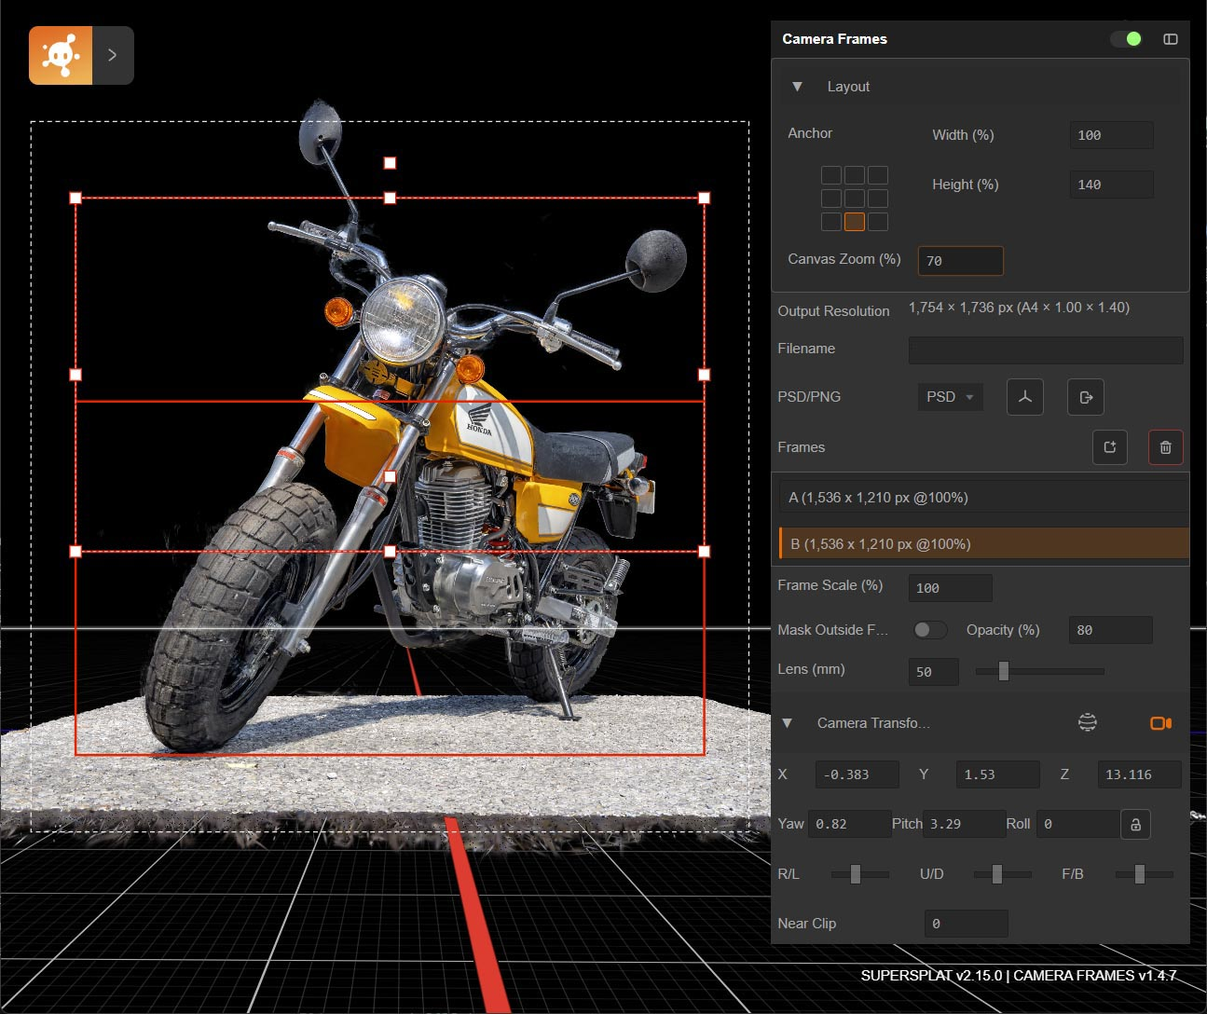
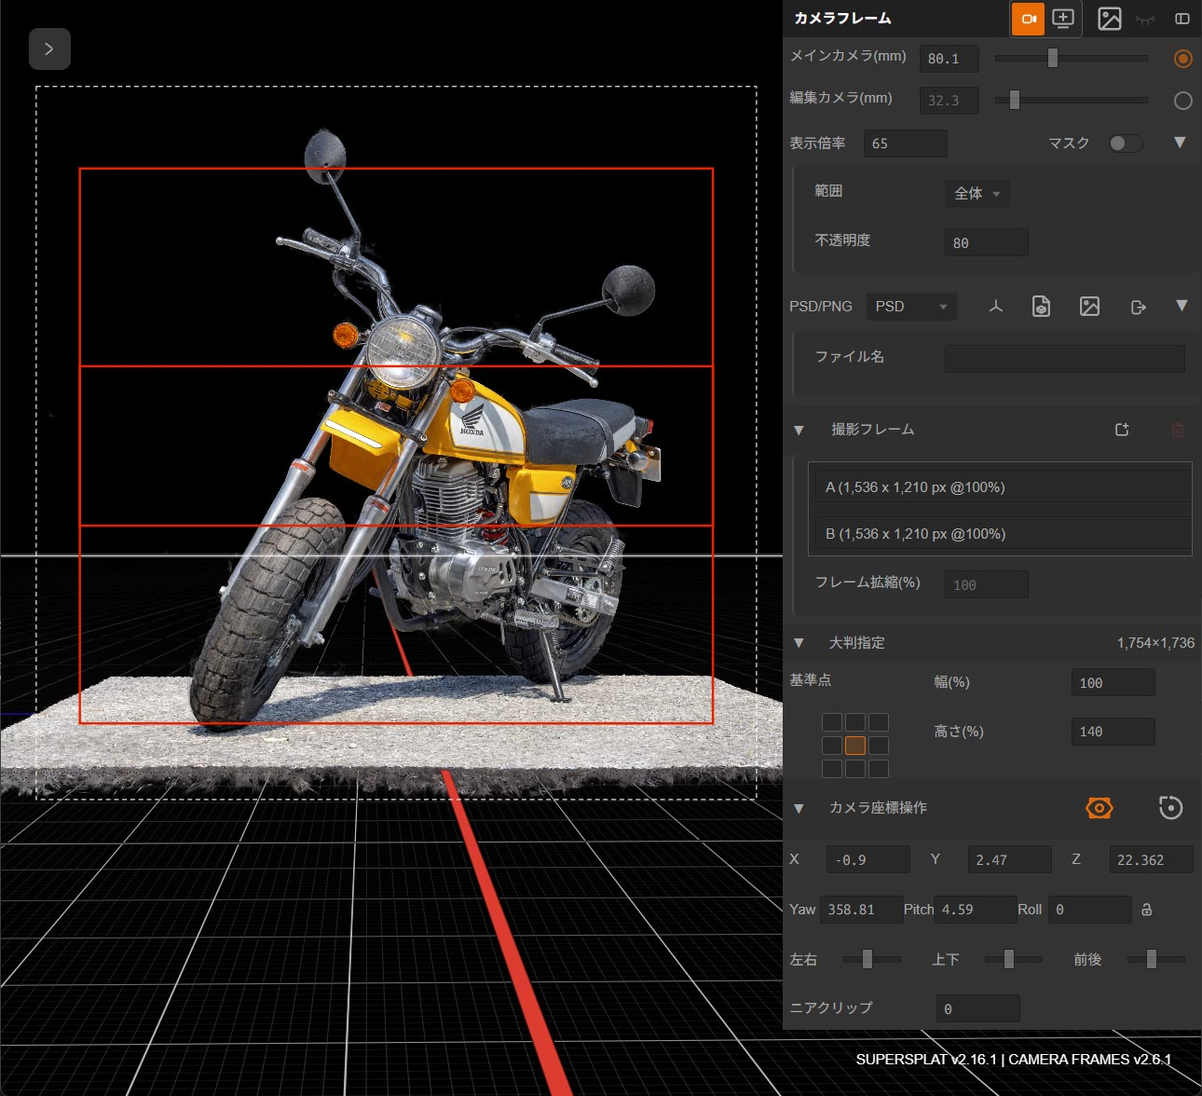
refactor: Rename export format label from 'PSD/PNG' to 'Export' in UI, documentation, and screenshots.

diff --git a/docs/camera_frames_manual.html b/docs/camera_frames_manual.html
@@ -4,7 +4,7 @@
 <head>
     <meta charset="UTF-8">
     <meta name="viewport" content="width=device-width, initial-scale=1.0">
-    <title>supersplat CAMERA FRAMES 操作マニュアル</title>
+    <title>CAMERA FRAMES 操作マニュアル</title>
     <style>
         body {
             font-family: 'Segoe UI', Tahoma, Geneva, Verdana, sans-serif;
@@ -145,11 +145,11 @@
 
     <div class="container">
 
-        <h1>supersplat CAMERA FRAMES 操作マニュアル</h1>
+        <h1>CAMERA FRAMES 操作マニュアル</h1>
         <p style="text-align: left; font-size: 1.1em; color: #5a5a5a;">
-            背景原図の参考画像を作成します。3Dシーンの中に、ロケ地の3Dデータ(拡張子PLY形式のファイル)や3Dモデル(拡張子GLB形式のファイル)を配置し、A4換算での書き出し用紙サイズを設定し、複数の<span
-                class="keyword">撮影フレーム</span>を配置し、カメラの画角やモデルの位置合わせをして、LO用紙テンプレとぴったり合う画像として書き出すためのツールです。Webブラウザで動作させることができます。本マニュアルは
-            CAMERA FRAMES v2.6.0 に対応しています。
+            CAMERA FRAMES は、A4相当の<span class="keyword">基準用紙</span>の上に複数の<span
+                class="keyword">撮影フレーム</span>をレイアウトし、構図（カメラの位置・向き・画角）を調整して、LO用紙テンプレとぴったり合う画像を書き出すためのツールです。Webブラウザで動作します。本マニュアルは
+            CAMERA FRAMES <span class="keyword">v2.6.1</span> に対応しています。
             <br>URL: <a href="https://stechdrive.github.io/supersplat-cameraframes/"
                 target="_blank">https://stechdrive.github.io/supersplat-cameraframes/</a>
         </p>
@@ -162,111 +162,176 @@
 
         <hr>
 
+        <h2>はじめに（基本の流れ）</h2>
+        <ul class="operation-list">
+            <li><span class="keyword">3Dデータ</span>（.ply/.splat/.sog など）や <span
+                    class="keyword">3Dモデル</span>（.glb）を読み込みます。</li>
+            <li><span class="control">大判指定</span>で基準用紙のサイズ（幅/高さ）と基準点を決めます。</li>
+            <li><span class="control">フレーム一覧</span>で撮影フレームを追加し、ビューポート上で位置・回転・拡縮を調整します。</li>
+            <li><span class="control">メインカメラ表示</span>で構図を仕上げ、必要に応じて<span class="control">編集カメラ表示</span>から別視点で確認できます。
+            </li>
+            <li><span class="control">エクスポート</span>で PSD/PNG を<span class="control">レンダリング</span>して書き出します。</li>
+        </ul>
+
         <h2>0. ファイルの読み込み</h2>
-        <div class="container">
+        <p style="text-align: left; font-size: 1.1em; color: #5a5a5a;">
+            ブラウザへドラッグ・アンド・ドロップすると読み込みできます（複数ファイル可）。画像ファイルを1枚だけドロップした場合は、<span class="keyword">下絵</span>として読み込まれます。
+        </p>
 
-            <p style="text-align: left; font-size: 1.1em; color: #5a5a5a;">
-                ブラウザにロケ地の3Dデータ(拡張子.ply/.sog
-                のファイル)や3Dモデル(拡張子.glbのファイル)、このアプリで作ったシーンファイル(拡張子.ssprojのファイル)をドラッグ・アンド・ドロップすると読み込みできます。
-            </p>
-
-
-        </div>
+        <table>
+            <tr>
+                <th>読み込めるもの</th>
+                <th>拡張子例</th>
+                <th>用途</th>
+            </tr>
+            <tr>
+                <td>ロケ地などの3Dデータ</td>
+                <td><span class="control">.ply / .splat / .sog / .lcc</span></td>
+                <td>背景などのベースとして配置します（複数読み込み可）。</td>
+            </tr>
+            <tr>
+                <td>3Dモデル</td>
+                <td><span class="control">.glb</span></td>
+                <td>小物やキャラなどの当たりを置いて構図確認に使います。</td>
+            </tr>
+            <tr>
+                <td>シーンファイル</td>
+                <td><span class="control">.ssproj</span></td>
+                <td>カメラや撮影フレーム、マスク、下絵などを含めて再現できます。</td>
+            </tr>
+            <tr>
+                <td>下絵（画像）</td>
+                <td><span class="control">.png / .jpg / .jpeg / .webp</span></td>
+                <td>基準用紙に重ねて表示し、位置合わせのガイドにできます。</td>
+            </tr>
+        </table>
 
 
         <hr>
 
 
-        <h2>1. UIパネルからの操作 (設定・書き出し)</h2>
+        <h2>1. UIパネルからの操作（設定・書き出し）</h2>
         <div class="image-placeholder">
 
-            <span class="note"><img src="./img/screenshot.jpg" alt="スクリーンショット" width="80%"></span>
+            <span class="note"><img src="../static/images/screenshot-cameraframes.jpg" alt="スクリーンショット"
+                    width="80%"></span>
         </div>
         <p style="text-align: left; font-size: 1.0em; color: #5a5a5a;">
-            パネルヘッダーには <span class="control">メインカメラ / 編集カメラ</span> 切り替えアイコンと、パネルを畳む <span class="control">コンパクト切替</span>
-            があります。どちらのカメラで編集するかを切り替えられます。<span class="keyword">メインカメラで見ているものが最終的にレンダリングされて出力されます。</span>
+            操作の中心は、画面右側の <span class="control">カメラフレーム</span> パネルです。パネル内の一部項目は<span class="control">▶/▼</span>で折りたためます。
+            <span class="keyword">メインカメラ表示の見え方が、最終的にレンダリングされて出力されます。</span>
         </p>
 
+        <h3>1-0. パネルヘッダー（メイン/編集・下絵・コンパクト）</h3>
         <table>
             <tr>
-                <th>パネル名</th>
+                <th>項目</th>
                 <th>主な機能</th>
-                <th>詳細とポイント</th>
+                <th>ポイント</th>
             </tr>
             <tr>
-                <td><span class="control">大判指定</span></td>
-                <td>出力サイズと表示倍率の設定</td>
+                <td><span class="control">メインカメラ表示</span> / <span class="control">編集カメラ表示</span></td>
+                <td>表示モードの切替</td>
                 <td>
                     <ul>
-                        <li><span class="control">幅/高さ(%)</span> A4基準用紙(1754×1240px
-                            @150dpi)に対する拡大率を指定（最小100%、UIは1000%まで／内部は16000px上限）。</li>
-                        <li><span class="control">基準点</span> 3×3アンカーで拡縮の基準を指定。構図はアンカーを基準に維持されます。</li>
-                        <li><span class="control">表示倍率</span> 25-100%。プレビュー表示のみ縮小され、書き出しサイズには影響しません。</li>
-                        <li><span class="control">出力解像度</span> 実際に画像として出力される時の縦横のピクセル数です。</li>
+                        <li><span class="control">メインカメラ表示</span>は CAMERA FRAMES を有効にして構図を決めるモードです。</li>
+                        <li><span class="control">編集カメラ表示</span>は自由に移動して確認するためのモードです（必要に応じてメインカメラも編集できます）。</li>
+                        <li><span class="keyword">書き出しはメインカメラ表示の構図で行われます。</span></li>
                     </ul>
                 </td>
             </tr>
             <tr>
-                <td><span class="control">エクスポート</span></td>
-                <td>画像の書き出し</td>
+                <td><span class="control">下絵</span></td>
+                <td>下絵パネルの表示</td>
                 <td>
                     <ul>
-                        <li><span class="keyword">PSD</span>: グリッド・アイレベル・3Dモデル・撮影フレームをレイヤー保持して150dpiで出力。</li>
-                        <li><span class="keyword">PNG</span>: 単一画像としてPNG書き出し。</li>
-                        <li><span class="control">グリッド/アイレベル</span>: グリッドとアイレベルを出力画像に描画。PNGは合成、PSDは個別レイヤー。</li>
-                        <li><span class="control">モデルレイヤー</span>: PSD時のみ有効。3Dモデルをレイヤーとして出力。</li>
-                        <li><span class="control">レンダリング</span>: プレビューしている状態と一致する構図でファイルに画像を出力します。</li>
+                        <li>パネルヘッダーの<span class="control">下絵アイコン</span>で、下絵パネルを開きます。</li>
+                        <li>下絵を読み込むと、<span class="control">下絵表示/非表示</span>アイコンが操作できるようになります。</li>
                     </ul>
                 </td>
             </tr>
             <tr>
-                <td><span class="control">フレーム一覧</span></td>
-                <td>撮影フレームの追加と管理</td>
+                <td><span class="control">コンパクト切替</span></td>
+                <td>パネルの折りたたみ</td>
                 <td>
                     <ul>
-                        <li><span class="control">フレーム追加・削除</span>で新しい撮影フレームを追加（最大20個）/削除。</li>
-                        <li><span class="control">リスト</span>クリックで選択・再クリックで解除。</li>
-                        <li><span class="control">フレーム拡縮(%)</span>で選択中のフレームのスケールを数値指定（10-400%）。</li>
-                        <li><span class="control">マスク</span> マスクONでフレーム外を暗く表示。<span
-                                class="control">範囲</span>はマスクする範囲を全フレームか個別のフレームかを切り替えます。<span
-                                class="control">不透明度</span>でマスクの濃度を設定。マスクはプレビュー専用で書き出し画像には含まれません。
-                        </li>
-                    </ul>
-                </td>
-            </tr>
-            <tr>
-                <td><span class="control">カメラ座標操作</span></td>
-                <td>カメラ姿勢と画角の調整</td>
-                <td>
-                    <ul>
-                        <li><span class="control">FPV/オービット</span>
-                            マウスでのカメラの操作方法の切り替え。FPVはカメラを主観視点として移動できます。オービットは注視点を基準に軌道を描くようにカメラが移動します。</li>
-                        <li><span class="control">メインカメラ(mm)</span>
-                            メインカメラ表示中にメインカメラのレンズを編集。数値は、100%の撮影フレーム基準の水平画角を35mm判換算で表示しています。</li>
-                        <li><span class="control">編集カメラ(mm)</span> 編集カメラ表示中に編集カメラのレンズを編集。</li>
-                        <li><span class="control">ターゲット切替</span>
-                            ラジオボタンで切り替え。メインカメラ編集中はメインカメラ以外操作できません。編集カメラ表示中の時には、どちらのカメラの数値を操作するか選べます。編集カメラの視点からメインカメラの配置を確認し、カメラの位置や向き、レンズを変更できます。
-                        </li>
-                        <li> <span class="control">X, Y, Z</span> /
-                            <span class="control">ヨー, ピッチ, ロール</span>入力で姿勢を精密制御。<span class="control">ロール固定</span>も可能。
-                        </li>
-                        <li><span class="control">左右・上下・前後</span> スライダーでローカル方向へ移動。<span
-                                class="control">Altキー</span>で数値・移動量を微調整。</li>
-                        <li><span class="control">ニアクリップ</span>
-                            はカメラから指定した距離（m）までの範囲の描画をOFFにする機能です。カメラの近くにある写したくない邪魔なものの表示を消すことができます。</li>
+                        <li>パネルをヘッダーだけの表示にして作業スペースを広げられます。</li>
+                        <li>パネルヘッダーは<span class="control">ドラッグ</span>で移動できます（ウィンドウ内に収まるように自動調整）。</li>
                     </ul>
                 </td>
             </tr>
         </table>
 
+        <h3>1-1. 大判指定（基準用紙のサイズ）</h3>
+        <ul class="operation-list">
+            <li><span class="control">基準点</span>: 3×3アンカーで拡縮の基準を指定します。</li>
+            <li><span class="control">幅/高さ(%)</span>: A4基準用紙（1754×1240px
+                @150dpi）に対する拡大率です（最小100%、UIは1000%まで／内部は16000px上限）。</li>
+            <li><span class="control">表示倍率</span>: 25..100%。プレビュー表示のみ縮小され、書き出しサイズには影響しません。</li>
+            <li><span class="control">出力解像度</span>: 実際に画像として出力される縦横のピクセル数です。</li>
+        </ul>
+
+        <h3>1-2. 書き出し（PSD/PNG書き出し）</h3>
+        <ul class="operation-list">
+            <li><span class="control">書き出し</span>: PSD/PNG形式を選びます。</li>
+            <li><span class="control">グリッド/アイレベル</span>: グリッドとアイレベルを出力画像に含めます（PNGは合成、PSDは個別レイヤー）。</li>
+            <li><span class="control">モデルレイヤー</span>: PSD時のみ有効。GLBモデルをモデル単位でレイヤー出力します（シーンが重い場合は時間がかかります）。</li>
+            <li><span class="control">下絵を出力</span>: 下絵を出力に含めます（下絵パネルの<span class="control">出力</span>と同じ設定です）。</li>
+            <li><span class="control">書き出し詳細</span>: <span class="control">ファイル名</span>を編集できます。</li>
+            <li><span class="control">レンダリング</span>: 現在の構図でファイルに画像を出力します。</li>
+        </ul>
+
+        <h3>1-3. 撮影フレーム（フレーム一覧）</h3>
+        <ul class="operation-list">
+            <li><span class="control">フレーム追加</span>/<span class="control">フレーム削除</span>: 新しい撮影フレームを追加（最大20個）/削除します。</li>
+            <li><span class="control">リスト</span>: クリックで選択・再クリックで解除します。リストには実効ピクセルサイズの目安も表示されます。</li>
+            <li><span class="control">フレーム拡縮(%)</span>: 選択中フレームのスケールを数値指定します（10..400%にクランプ）。</li>
+        </ul>
+
+        <h3>1-4. マスク（フレーム外を暗く表示）</h3>
+        <ul class="operation-list">
+            <li><span class="control">マスク</span>: ONでフレーム外を暗く表示します（プレビュー専用で、PNG/PSDには含まれません）。</li>
+            <li><span class="control">マスク詳細</span>: <span class="control">範囲</span>（全体/選択）と<span
+                    class="control">不透明度</span>を調整できます。範囲が「選択」のとき、選択フレームがない場合は全体扱いになります。</li>
+        </ul>
+
+        <h3>1-5. カメラ座標操作（カメラの移動・回転・画角）</h3>
+        <ul class="operation-list">
+            <li><span class="control">FPV/オービット</span>: マウスでのカメラ操作方式を切り替えます（詳細は「2. マウス・ビューポート操作」参照）。</li>
+            <li><span class="control">メインカメラ(mm)</span>: メインカメラの画角（35mm判換算）を調整します。<span
+                    class="keyword">書き出しの構図に影響します。</span></li>
+            <li><span class="control">編集カメラ(mm)</span>: 編集カメラ表示中の画角（35mm判換算）を調整します。</li>
+            <li><span class="control">操作対象</span>: 編集カメラ表示中は、<span class="control">メインカメラ</span>と<span
+                    class="control">編集カメラ</span>のどちらを編集するか選べます（レンズ行の横にある小さなボタンで切替）。</li>
+            <li><span class="control">X, Y, Z</span> / <span class="control">Yaw, Pitch, Roll</span>:
+                位置と回転を精密に調整します。<span class="control">ロール固定</span>も可能です。</li>
+            <li><span class="control">左右・上下・前後</span>: スライダーでローカル方向へ移動します（<span class="control">Altキー</span>で微調整）。</li>
+            <li><span class="control">ニアクリップ</span>: カメラに近い邪魔なものを写さないための表示カット距離（m）です。</li>
+        </ul>
+
+        <h3>1-6. 下絵（参考画像）</h3>
+        <p style="text-align: left; font-size: 1.0em; color: #5a5a5a;">
+            下絵は、基準用紙に重ねて表示できる画像です。LOテンプレやレイアウトのガイド画像を読み込み、カメラやフレームの位置合わせに使えます。
+        </p>
+        <ul class="operation-list">
+            <li><span class="control">下絵パネルを開く</span>: カメラフレームパネルのヘッダーにある<span class="control">下絵アイコン</span>をクリックします。
+            </li>
+            <li><span class="control">読み込み/差し替え</span>: 画像を選択して読み込みます（.png/.jpg/.webp）。ドラッグ&ドロップでも読み込みできます。</li>
+            <li><span class="control">表示</span>: 下絵の表示/非表示を切り替えます（ヘッダーの表示アイコンからも切替可）。</li>
+            <li><span class="control">配置</span>: <span class="control">前面</span>/<span
+                    class="control">背面</span>で重なり順を切り替えます。</li>
+            <li><span class="control">スケール</span>/<span class="control">不透明度</span>/<span class="control">オフセット</span>:
+                見やすい状態に調整します。<span class="control">センタリング</span>でオフセットを戻せます。</li>
+        </ul>
+
         <hr>
 
         <h2>2. マウス・ビューポート操作</h2>
 
-        <h3>2-1. フレーム操作</h3>
+        <h3>2-1. 撮影フレーム操作</h3>
         <div class="image-placeholder">
 
-            <span class="note"><img src="./img/frame.jpg" alt="スクリーンショット" width="80%"></span>
+            <span class="note"><img src="../static/images/screenshot-cameraframes.jpg" alt="撮影フレームの例"
+                    width="80%"></span>
         </div>
 
         <table class="operation-table">
@@ -312,11 +377,11 @@
             </tr>
         </table>
 
-        <h3>2-2. FPVカメラ操作 (一人称視点での移動)</h3>
-        <p>メインカメラ表示に切り替えた時（またはFPVモード選択時）のカメラ操作です。</p>
+        <h3>2-2. FPVカメラ操作（一人称視点での移動）</h3>
+        <p>FPVモード選択時のカメラ操作です（メインカメラ/編集カメラどちらでも共通）。</p>
         <div class="image-placeholder">
 
-            <span class="note">FPVモードでのカメラ移動操作 (視点移動、前後移動、平行移動) のイメージ図</span>
+            <span class="note">FPVモード：視点移動（左ドラッグ）、前後移動（ホイール）、平行移動（右ドラッグ）</span>
         </div>
 
         <ul class="operation-list">
@@ -337,6 +402,16 @@
             </li>
         </ul>
 
+        <h3>2-3. オービットカメラ操作（注視点の周りを回る）</h3>
+        <p>オービットモード選択時のカメラ操作です。</p>
+        <ul class="operation-list">
+            <li><span class="keyword">回り込み</span>: <span class="control">左ドラッグ</span>で注視点の周りを回転します。</li>
+            <li><span class="keyword">平行移動</span>: <span class="control">右ドラッグ</span>でカメラを平行移動します。</li>
+            <li><span class="keyword">ズーム</span>: <span class="control">ホイール</span>（または<span
+                    class="control">中ドラッグ</span>）で前後にズームします。</li>
+            <li><span class="keyword">注視点変更</span>: <span class="control">ダブルクリック</span>でクリックした場所に注視点を移動します。</li>
+        </ul>
+
         <hr>
 
         <h2>3. その他・補足</h2>
@@ -344,10 +419,15 @@
         <div class="tip">
             <span style="font-weight: bold;">ヒント：現在の状態を保存したい / メニューを開くには</span><br>
             画面左上のアイコンの<span class="keyword">「＞」をクリック</span>してメニューを展開してください。そのメニューの<span class="keyword">「ファイル」</span> →
-            <span class="keyword">「名前つけて保存」</span> から、3Dモデルやカメラ、フレーム設定などを再現可能な<span class="keyword">シーン全体</span>を保存できます。
+            <span class="keyword">「名前を付けて保存」</span> から、3Dデータやカメラ、撮影フレーム、マスク、下絵などを再現可能な<span
+                class="keyword">シーン全体</span>を保存できます。
         </div>
 
         <ul class="operation-list">
+            <li>
+                <span class="keyword">Undo/Redo</span>: 撮影フレーム編集・マスク・下絵・カメラ調整などは <span class="control">Ctrl+Z</span> /
+                <span class="control">Ctrl+Shift+Z</span> で戻せます。
+            </li>
             <li>
                 <span class="keyword">自動フィット</span>: ウィンドウサイズ変更などで、レイアウト用紙全体が画面に収まるように自動的に表示倍率が調整されます。
             </li>
@@ -355,7 +435,7 @@
                 <span class="keyword">プレビュー＝書き出し</span>: プレビューで見えている用紙サイズ内が指定解像度で出力されます。マスクはプレビュー専用でPNG/PSDには含まれません。
             </li>
             <li>
-                <span class="keyword">複数PLY/GLBの統合レンダリング</span>: 複数の3Dデータを読み込んでも、<span
+                <span class="keyword">複数PLY/SPLAT/GLBの統合レンダリング</span>: 複数の3Dデータを読み込んでも、<span
                     class="keyword">深度順に統合して描画</span>されるため、ビューポート・書き出しともに<span class="keyword">正しく遮蔽が効きます</span>。
             </li>
             <li>
